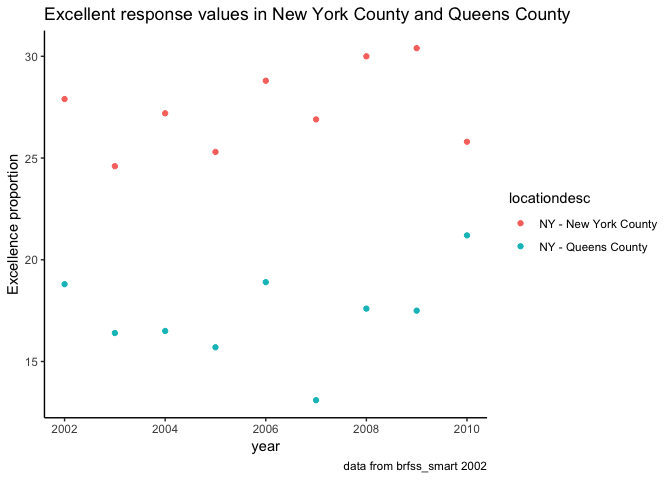
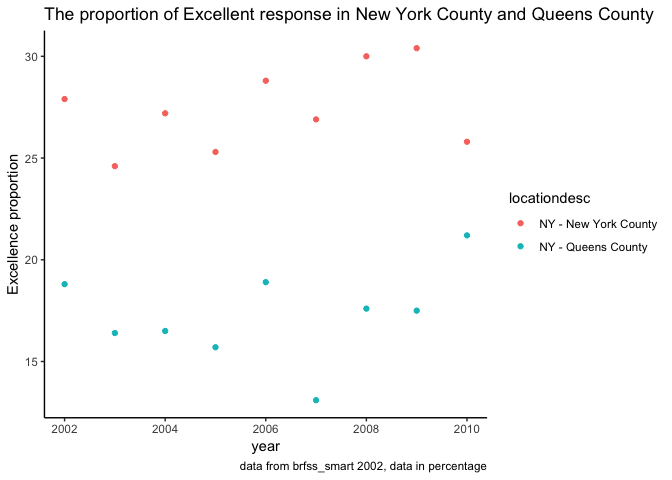
last comment of problem 3

Changed region(s): [[0.0625, 0.0, 0.9688, 0.0625], [0.3438, 0.9375, 0.7188, 1.0]]

diff --git a/p8105_hw2_xz2809.md b/p8105_hw2_xz2809.md
@@ -60,23 +60,23 @@ Now we are trying to reformat the dataset:
 NYCtransit_data_retain %>% 
   gather(key = route_number, value = route_name, route1:route11) %>% 
   filter(route_name=='A') %>% 
-  distinct(station_name) %>% 
+  distinct(station_name,line) %>% 
   nrow()
 ```
 
-    ## [1] 56
+    ## [1] 60
 
 ``` r
 NYCtransit_data_retain %>% 
   gather(key = route_number, value = route_name, route1:route11) %>% 
   filter(route_name=='A',ada==TRUE) %>% 
-  distinct(station_name) %>% 
+  distinct(station_name,line) %>% 
   nrow()
 ```
 
-    ## [1] 16
+    ## [1] 17
 
-There are 56 distinct stations serving A train and among the stations that serve the A train, there are 16 that are ADA compliant.
+There are 60 distinct stations serving A train and among the stations that serve the A train, there are 17 that are ADA compliant.
 
 Problem 2
 ---------
@@ -144,7 +144,7 @@ brfss_smart2010=
   spread(key = response, value = data_value) %>% 
   janitor::clean_names() %>% 
   mutate(
-    proportion = excellent + very_good
+    proportion_ex_verygood = excellent + very_good
   )
 ```
 
@@ -156,7 +156,7 @@ brfss_smart2010 %>%
   distinct(locationabbr)
 ```
 
-The proportion of responses that were “Excellent” or “Very Good" is 0.031743. There are in total 404 unique locations included in the dataset. In America, there are 50 states and every state has been represented. The one more variable is "DC", which is not an acutual state but the capital of USA.
+There are in total 404 unique locations included in the dataset. In America, there are 50 states and every state has been represented. The one more variable is "DC", which is not an acutual state but the capital of USA.
 
 ``` r
 MaxTable <- function(x){
@@ -177,12 +177,13 @@ summary(brfss_2002$excellent)
     ##    Min. 1st Qu.  Median    Mean 3rd Qu.    Max.    NA's 
     ##   14.60   20.35   23.60   23.96   26.90   43.20       2
 
-The most most observed state is NJ. The median of the “Excellent” response value is 23.60. Below two figures are histogram of “Excellent” response values in the year 2002 and scatterplot showing the proportion of “Excellent” response values in New York County and Queens County (both in NY State) in each year from 2002 to 2010, respectively.
+The most most observed state is NJ. The median of the proportion of “Excellent” response value is 23.60, in percentage. Below two figures are histogram of “Excellent” response values in the year 2002 and scatterplot showing the proportion of “Excellent” response values in New York County and Queens County (both in NY State) in each year from 2002 to 2010, respectively.
 
 ``` r
 ggplot(brfss_2002,aes(x=excellent))+geom_histogram()+
   labs(
-    title="Excellent response value in 2002",
+    title="The proportion of excellent response in 2002",
+    caption = "data from brfss_smart 2002, data in percentage",
     x = "Excellence response proportion",
     y = "Count"
   )+
@@ -197,8 +198,8 @@ brfss_smart2010 %>%
   filter(year>2001 & year<2011) %>% 
   ggplot(aes(x=year,y=excellent,color=locationdesc))+geom_point() + 
   labs(
-    title = "Excellent response values in New York County and Queens County",
-    caption = "data from brfss_smart 2002",
+    title = "The proportion of Excellent response in New York County and Queens County",
+    caption = "data from brfss_smart 2002, data in percentage",
     y = "Excellence proportion"
     )+
   theme_classic()
